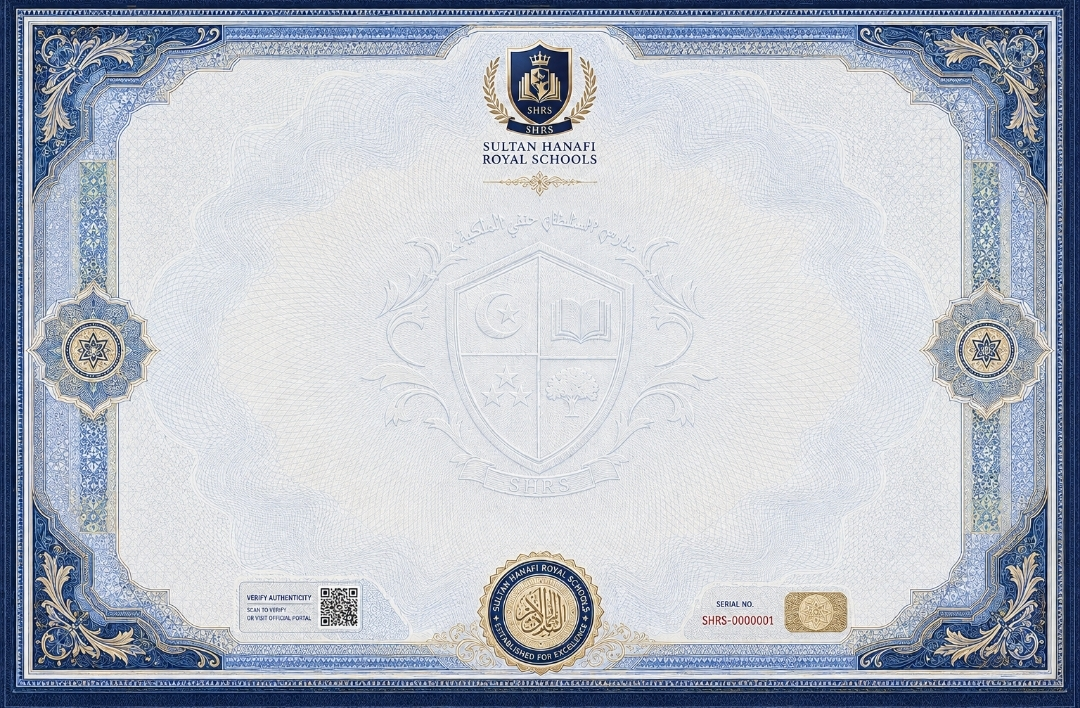
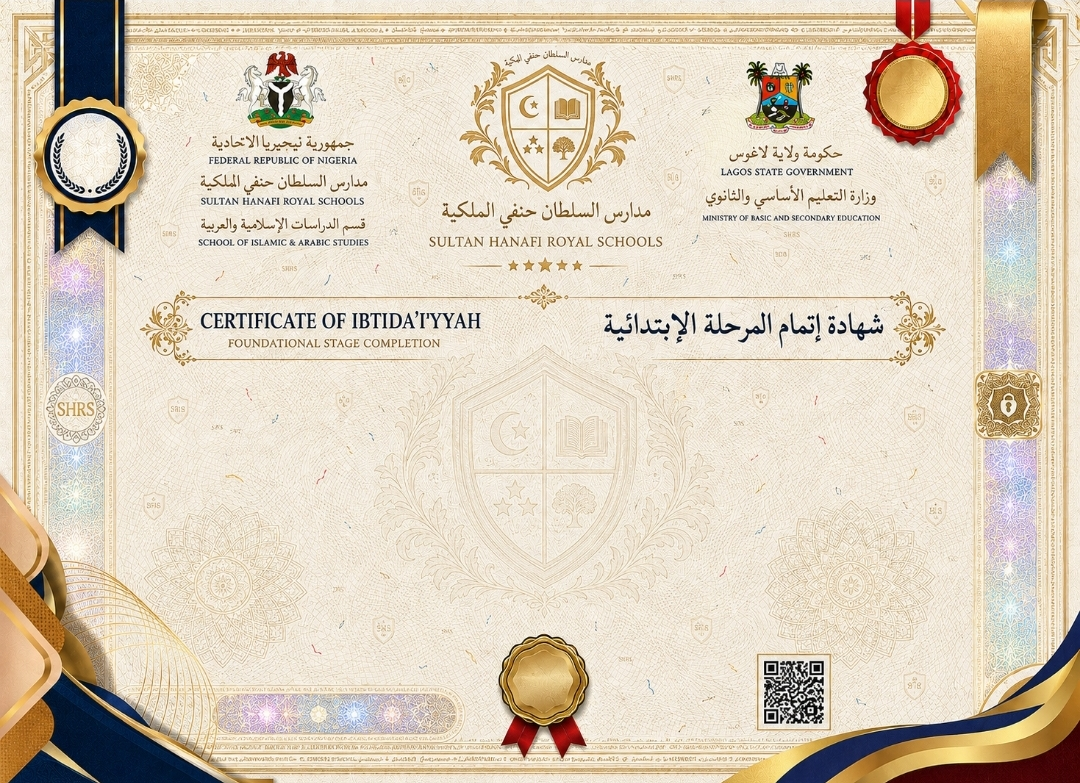
Final Flagship Execution: locked production master + annotated field layout
The Founder's definitive certificate artwork (c141a74d upload) is now
the locked production master, per the Final Flagship Execution
Directive — used exactly as provided, nothing redesigned:

- assets/images/certificates/official-background.jpg replaced with the
  approved artwork (tri-crest masthead with Nigeria arms, official SHRS
  logo lockup, Lagos State Government/Ministry block, printed bilingual
  titles, medallions, holographic rails, bottom seal, QR zone). The
  earlier blue and royal-gold artworks are archived alongside.
- Composition layer rebuilt to the client's annotated layout master:
  bilingual intro lines (This is to certify that / تشهد إدارة مدارس
  السلطان حنفي الملكية بأن), gold-foil student names EN + AR on one
  shared line with equal prominence, sex-aware completion paragraphs,
  mirrored dotted-leader field tables (Programme/Level, Academic
  Session, Certificate Number, Student ID), Date/Place of Issue rows,
  central bordered Hijri-date box, three signatories (Registrar,
  Principal/Head of School, Chairman Board of Governors) flanking the
  printed seal, live QR over the artwork's QR zone, and a verification
  strip carrying Certificate No., Document ID (DID-YYYY-PROG-NNNNNNN),
  grouped Verification Code from the HMAC hash, and the real verify
  URL — every dynamic field a defined placeholder zone for bulk
  generation.
- Three measure-render-refine rounds against the artwork's real
[…]

diff --git a/functions/_lib/stage-certificate-template.js b/functions/_lib/stage-certificate-template.js
@@ -343,91 +343,90 @@ function sheetHtml(args) {
 function sheetHtmlOfficial({ cert, qrSvgMarkup, verifyUrl }) {
   const ar = arForms(cert.student_sex);
   const displayHash = String(cert.content_hash || '').slice(0, 12).toUpperCase();
-  const gregEn = formatGregorianEn(cert.issued_at);
-  const gregAr = formatGregorianAr(cert.issued_at);
-  const hijriEn = cert.issued_at_hijri || '';
-  const hijriAr = cert.issued_at_hijri_ar || '';
+  const verifyCode = displayHash.replace(/(.{4})(.{4})(.{4})/, '$1-$2-$3');
+  const year = new Date(String(cert.issued_at).slice(0, 10)).getUTCFullYear();
+  const docId = `DID-${year}-${escapeHtml(cert.programme_code || 'IBT')}-${String(cert.id || 0).padStart(7, '0')}`;
+  const issuedDDMM = (() => {
+    const d = String(cert.issued_at).slice(0, 10).split('-');
+    return `${d[2]} / ${d[1]} / ${d[0]}`;
+  })();
   const nameEn = escapeHtml(cert.student_full_name);
   const nameAr = escapeHtml(cert.student_full_name_ar || '');
-  const placeEn = escapeHtml(cert.place_en || 'Ikorodu, Lagos State, Nigeria');
-  const placeAr = escapeHtml(cert.place_ar || 'مدينة إكورودو، ولاية لاغوس، نيجيريا');
   const serial = escapeHtml(cert.serial_no);
   const studentId = escapeHtml(cert.student_identity_no || '—');
-  const academicYear = escapeHtml(cert.academic_year);
-  const stageAr = escapeHtml(cert.programme_label_ar || 'المرحلة الابتدائية');
-  const nameMicro = escapeHtml(`· ${cert.serial_no} `.repeat(14));
+  const session = escapeHtml(String(cert.academic_year || '').replace('/', ' – '));
+  const hijriAr = escapeHtml(cert.issued_at_hijri_ar || cert.issued_at_hijri || '');
+  const arCompleted = String(cert.student_sex || '').toLowerCase() === 'female' ? 'أتمت' : 'أتم';
+
+  const enRow = (label, value) => `<div class="f-row en"><span class="f-label">${label}</span><span class="f-lead"></span><span class="f-value">${value}</span></div>`;
+  const arRow = (label, value) => `<div class="f-row ar"><span class="f-value">${value}</span><span class="f-lead"></span><span class="f-label">${label}</span></div>`;
 
   return `<div class="sheet sheet--official">
   <img class="official-bg" src="${OFFICIAL_BACKGROUND}" alt="" />
 
-  <div class="o-head o-head-left">
-    <img class="o-arms" src="/assets/images/crests/nigeria-coat-of-arms.png" alt="Federal Republic of Nigeria" />
-    <div class="o-state-en">Federal Republic of Nigeria</div>
-    <div class="o-school-en">School of Islamic &amp; Arabic Studies</div>
+  <div class="o2-intro-en">This is to certify that</div>
+  <div class="o2-intro-ar">تشهد إدارة مدارس السلطان حنفي الملكية بأن</div>
+
+  <div class="o2-name-en foil-text">${nameEn}</div>
+  <div class="o2-name-ar foil-text">${nameAr}</div>
+
+  <div class="o2-para-en">has successfully completed the requirements of the
+    Ibtidā&rsquo;iyyah (Primary) stage in accordance with the approved curriculum
+    and academic standards of the School.</div>
+  <div class="o2-para-ar">قد ${arCompleted} بنجاحٍ متطلبات المرحلة الإبتدائية وفقًا
+    للمناهج المعتمدة والمعايير الأكاديمية المعمول بها في المدرسة.</div>
+
+  <div class="o2-fields-en">
+    ${enRow('Programme / Level', 'Ibtidā&rsquo;iyyah (Primary)')}
+    ${enRow('Academic Session', session)}
+    ${enRow('Certificate Number', serial)}
+    ${enRow('Student ID', studentId)}
   </div>
-  <div class="o-head o-head-right">
-    <div class="o-state-ar">جمهورية نيجيريا الاتحادية</div>
-    <div class="o-inst-ar">مدارس السلطان حنفي الملكية</div>
-    <div class="o-school-ar">قسم الدراسات الإسلامية والعربية</div>
+  <div class="o2-fields-ar">
+    ${arRow('البرنامج / المستوى', 'المرحلة الإبتدائية')}
+    ${arRow('السنة الدراسية', session)}
+    ${arRow('رقم الشهادة', serial)}
+    ${arRow('الرقم التعريفي للطالب', studentId)}
   </div>
 
-  <div class="o-titles">
-    <div class="o-title-en">
-      <div class="o-t-en-1">Certificate of Ibtidā&rsquo;iyyah</div>
-      <div class="o-t-en-2">Foundational Stage Completion</div>
-    </div>
-    <div class="o-title-div"><span></span></div>
-    <div class="o-title-ar">
-      <div class="o-t-ar-1">شهادة إتمام المرحلة الإبتدائية</div>
-      <div class="o-t-ar-2"><span dir="rtl">العام الدراسي ${academicYear}</span> · Academic Year ${academicYear}</div>
-    </div>
+  <div class="o2-dates-en">
+    ${enRow('Date of Issue', issuedDDMM)}
+    ${enRow('Place of Issue', escapeHtml(cert.place_en || 'Ikorodu, Lagos, Nigeria'))}
+  </div>
+  <div class="o2-dates-ar">
+    ${arRow('تاريخ الإصدار', issuedDDMM)}
+    ${arRow('مكان الإصدار', escapeHtml(cert.place_ar || 'لاغوس، نيجيريا'))}
   </div>
 
-  <div class="o-conferral">
-    <span class="o-conf-en">This certificate is proudly conferred upon</span>
-    <span class="o-conf-sep">✦</span>
-    <span class="o-conf-ar">تُمنح هذه الشهادة بكل فخرٍ واعتزاز إلى ${ar.student}</span>
+  <div class="o2-hijri">
+    <div class="o2-hijri-k">التاريخ الهجري</div>
+    <div class="o2-hijri-v">${hijriAr}</div>
   </div>
 
-  <div class="o-name">
-    <div class="o-name-en foil-text">${nameEn}</div>
-    <div class="o-name-ar foil-text">${nameAr}</div>
-    <div class="o-name-micro">${nameMicro}</div>
+  <div class="o2-sig o2-sig-1">
+    <div class="o2-sig-line"></div>
+    <div class="o2-sig-en">Registrar</div>
+    <div class="o2-sig-seal">(Official Seal) · المسجّلة</div>
+  </div>
+  <div class="o2-sig o2-sig-2">
+    <div class="o2-sig-line"></div>
+    <div class="o2-sig-en">Principal / Head of School</div>
+    <div class="o2-sig-seal">(Official Seal) · رئيس المدرسة</div>
+  </div>
+  <div class="o2-sig o2-sig-3">
+    <div class="o2-sig-line"></div>
+    <div class="o2-sig-en">Chairman, Board of Governors</div>
+    <div class="o2-sig-seal">(Official Seal) · رئيس مجلس الإدارة</div>
   </div>
 
-  <div class="o-citation">
-    <div class="o-cite en">
-      In recognition of the successful completion of the prescribed programme of the
-      <strong>Ibtidā&rsquo;iyyah — Foundational Stage</strong> in the Islamic and Arabic
-      disciplines, pursuant to the School&rsquo;s approved curriculum, at ${placeEn}.
-      <span class="o-dates">Given this <strong>${gregEn}</strong>${hijriEn ? `, corresponding to <strong>${escapeHtml(hijriEn)}</strong>` : ''}.</span>
-    </div>
-    <div class="o-cite ar">
-      وذلك ${ar.completion} متطلبات البرنامج المقرر <strong>${stageAr}</strong>
-      في علوم الدراسات الإسلامية والعربية وفق المناهج المعتمدة لدى المدرسة، في ${placeAr}.
-      <span class="o-dates">حُرِّرت هذه الشهادة في <strong>${gregAr}</strong>${hijriAr ? ` الموافق <strong>${escapeHtml(hijriAr)}</strong>` : ''}.</span>
-    </div>
-  </div>
+  <div class="o2-qr">${themedQr(qrSvgMarkup, '#221A10', '#FFFFFF')}</div>
+  <div class="o2-verify"><span class="vt">Verification</span>
+    Certificate No. <b>${serial}</b><span class="sep">·</span>
+    Document ID <b>${docId}</b><span class="sep">·</span>
+    Code <b>${verifyCode}</b><span class="sep">·</span>
+    Verify online <b>shroyalschools.com/verify-certificate</b></div>
 
-  <div class="o-void">أي تعديلٍ أو تغييرٍ يجعل هذه الشهادة لاغية &nbsp;·&nbsp; <em>Any alteration or modification renders this certificate void</em></div>
-
-  <div class="o-sig o-sig-left">
-    <div class="o-sig-line"></div>
-    <div class="o-sig-en">Registrar</div>
-    <div class="o-sig-ar">المسجّلة</div>
-  </div>
-  <div class="o-sig o-sig-right">
-    <div class="o-sig-line"></div>
-    <div class="o-sig-en">Head of the School</div>
-    <div class="o-sig-ar">رئيس المدرسة</div>
-  </div>
-
-  <!-- live verification into the paper's own zones -->
-  <div class="o-qr">${themedQr(qrSvgMarkup, '#1B2740', '#F4F6F7')}</div>
-  <div class="o-serial-patch"></div>
-  <div class="o-serial">${serial}</div>
-  <div class="o-student-id">STUDENT ID&nbsp; ${studentId}</div>
-  <div class="o-hash">HMAC-SHA-256 &nbsp;${displayHash}</div>
+  <div class="o2-void">Issued without alteration or erasure — any tampering voids this certificate · أي تعديلٍ أو تغييرٍ يجعل هذه الشهادة لاغية</div>
 </div>`;
 }
 
@@ -618,79 +617,65 @@ function docShell(title, sheetsHtml) {
   .frame{position:absolute;inset:0;width:100%;height:100%;}
   .official-bg{position:absolute;inset:0;width:100%;height:100%;object-fit:fill;}
 
-  /* ═══ OFFICIAL-PAPER COMPOSITION (client artwork, used as provided;
-     content set into the paper's own zones — all positions in mm on
-     the 297×209.5 sheet, measured from the source) ═══ */
+  /* ═══ OFFICIAL-PAPER COMPOSITION v2 — the client's LOCKED
+     production master (Final Flagship Execution Directive): the
+     artwork renders untouched; only the approved data fields compose
+     into its zones, per the annotated layout master. Positions in mm
+     on the 297×209.5 sheet. ═══ */
   .sheet--official{background:#FFFFFF;}
-  .o-head{position:absolute;top:34mm;width:72mm;}
-  .o-head-left{left:42mm;text-align:left;}
-  .o-head-right{right:42mm;text-align:right;}
-  .o-arms{height:10mm;width:auto;object-fit:contain;margin-bottom:1.6mm;
-    filter:contrast(1.15) saturate(1.2) drop-shadow(0 0.4mm 0.5mm rgba(20,30,55,.3));}
-  .o-state-en{font-family:var(--en-display);font-size:9.6pt;font-weight:700;letter-spacing:2.6px;text-transform:uppercase;color:#1F2A44;white-space:nowrap;}
-  .o-school-en{font-family:var(--en-display);font-size:7pt;font-weight:600;letter-spacing:2px;text-transform:uppercase;color:#8C6516;margin-top:1.3mm;}
-  .o-state-ar{font-family:var(--ar-display);font-size:10pt;font-weight:700;line-height:1.6;color:#1F2A44;white-space:nowrap;}
-  .o-inst-ar{font-family:var(--ar-display);font-size:10pt;font-weight:600;line-height:1.7;color:#3C4863;margin-top:1mm;white-space:nowrap;}
-  .o-school-ar{font-family:var(--ar-text);font-size:9pt;font-weight:700;color:#8C6516;margin-top:.5mm;}
+  .o2-intro-en{position:absolute;top:96mm;left:42mm;width:100mm;text-align:center;
+    font-family:var(--en-text);font-style:italic;font-size:9.8pt;color:#4B3420;}
+  .o2-intro-ar{position:absolute;top:95.6mm;right:42mm;width:100mm;text-align:center;direction:rtl;
+    font-family:var(--ar-text);font-size:10.4pt;font-weight:700;color:#4B3420;}
 
-  .o-titles{position:absolute;top:60mm;left:42mm;right:42mm;display:grid;grid-template-columns:1fr auto 1fr;align-items:center;column-gap:6mm;}
-  .o-title-en{text-align:right;}
-  .o-t-en-1{font-family:var(--en-display);font-size:13.2pt;font-weight:700;letter-spacing:2.2px;text-transform:uppercase;color:#1B2740;white-space:nowrap;}
-  .o-t-en-2{font-family:var(--en-text);font-style:italic;font-size:10pt;font-weight:600;letter-spacing:1px;color:#3C4863;margin-top:.8mm;}
-  .o-title-div{height:12mm;display:flex;align-items:center;}
-  .o-title-div span{display:block;width:.3mm;height:100%;background:linear-gradient(180deg,transparent,#B8860B,transparent);}
-  .o-title-ar{text-align:left;direction:rtl;}
-  .o-t-ar-1{font-family:var(--ar-display);font-size:12.8pt;font-weight:700;line-height:1.6;color:#1B2740;white-space:nowrap;}
-  .o-t-ar-2{font-family:var(--en-text);font-style:italic;font-size:8.6pt;color:#3C4863;margin-top:.4mm;direction:ltr;text-align:left;}
-  .o-t-ar-2 span{font-family:var(--ar-text);font-style:normal;}
+  .o2-name-en{position:absolute;top:102.5mm;left:38mm;width:106mm;text-align:center;
+    font-family:var(--en-display);font-size:16.5pt;font-weight:700;letter-spacing:1.8px;line-height:1.15;}
+  .o2-name-ar{position:absolute;top:102mm;right:38mm;width:106mm;text-align:center;direction:rtl;
+    font-family:var(--ar-text);font-size:15.5pt;font-weight:700;line-height:1.3;
+    -webkit-text-stroke:0.38px rgba(92,67,31,.55);}
 
-  .o-conferral{position:absolute;top:82mm;left:0;right:0;display:flex;justify-content:center;gap:5mm;align-items:baseline;}
-  .o-conf-en{font-family:var(--en-text);font-style:italic;font-size:10pt;color:#3C4863;}
-  .o-conf-sep{color:#B8860B;font-size:6.5pt;}
-  .o-conf-ar{font-family:var(--ar-text);font-size:11pt;color:#3C4863;direction:rtl;}
+  .o2-para-en{position:absolute;top:113.5mm;left:42mm;width:99mm;
+    font-family:var(--en-text);font-size:9.4pt;line-height:1.5;color:#3A2A18;text-align:center;}
+  .o2-para-ar{position:absolute;top:113.5mm;right:42mm;width:99mm;direction:rtl;
+    font-family:var(--ar-text);font-size:10pt;line-height:1.65;color:#3A2A18;text-align:center;}
 
-  .o-name{position:absolute;top:89mm;left:0;right:0;text-align:center;}
-  .o-name-en{font-family:var(--en-display);font-size:25pt;font-weight:700;letter-spacing:2.6px;line-height:1.1;}
-  .o-name-ar{font-family:var(--ar-text);font-size:18.5pt;font-weight:700;margin-top:1mm;direction:rtl;}
-  .o-name-micro{margin:1.8mm auto 0;max-width:128mm;white-space:nowrap;overflow:hidden;
-    font-family:var(--utility);font-size:2.9pt;letter-spacing:.35px;color:#8C6516;opacity:.65;
-    border-top:0.15mm solid rgba(140,101,22,.4);padding-top:.5mm;}
+  .f-row{display:flex;align-items:baseline;gap:1.6mm;margin-bottom:2mm;}
+  .f-label{font-family:var(--en-text);font-size:8.2pt;font-weight:600;color:#4B3420;white-space:nowrap;}
+  .f-row.ar .f-label{font-family:var(--ar-text);font-size:8.8pt;font-weight:700;}
+  .f-lead{flex:1;border-bottom:0.3mm dotted #B08A2E;transform:translateY(-0.7mm);}
+  .f-value{font-family:var(--utility);font-size:7.4pt;font-weight:600;letter-spacing:.2px;color:#221A10;white-space:nowrap;}
+  .f-row.ar{direction:rtl;}
+  .f-row.ar .f-value{direction:ltr;}
 
-  .o-citation{position:absolute;top:117mm;left:40mm;right:40mm;display:grid;grid-template-columns:1fr 1fr;column-gap:8mm;}
-  .o-cite{line-height:1.6;color:#33405C;}
-  .o-cite.en{font-family:var(--en-text);font-size:10.4pt;text-align:left;}
-  .o-cite.ar{font-family:var(--ar-text);font-size:11.2pt;line-height:1.78;text-align:right;direction:rtl;}
-  .o-cite strong{color:#1B2740;}
-  .o-dates{display:block;margin-top:1.2mm;font-size:.93em;}
+  .o2-fields-en{position:absolute;top:130mm;left:42mm;width:99mm;}
+  .o2-fields-ar{position:absolute;top:130mm;right:42mm;width:99mm;}
+  .o2-dates-en{position:absolute;top:154mm;left:42mm;width:80mm;}
+  .o2-dates-ar{position:absolute;top:154mm;right:42mm;width:80mm;}
 
-  .o-void{position:absolute;top:149mm;left:0;right:0;text-align:center;
-    font-family:var(--ar-text);font-size:6.6pt;color:#5A2830;}
-  .o-void em{font-family:var(--en-text);}
+  .o2-hijri{position:absolute;top:153mm;left:128mm;width:41mm;text-align:center;
+    border:0.35mm solid #B08A2E;background:rgba(253,248,238,.92);padding:1.3mm 2mm;}
+  .o2-hijri-k{font-family:var(--ar-text);font-size:7.6pt;font-weight:700;color:#4B3420;}
+  .o2-hijri-v{font-family:var(--ar-text);font-size:8.6pt;font-weight:700;color:#221A10;margin-top:.5mm;direction:rtl;}
 
-  .o-sig{position:absolute;top:154mm;width:62mm;text-align:center;}
-  .o-sig-left{left:46mm;}
-  .o-sig-right{right:46mm;}
-  .o-sig-line{width:50mm;height:0.25mm;margin:0 auto;background:linear-gradient(90deg,transparent,#1B2740 15%,#1B2740 85%,transparent);}
-  .o-sig-en{font-family:var(--en-display);font-size:7.6pt;font-weight:600;letter-spacing:1.9px;text-transform:uppercase;color:#1B2740;margin-top:1.4mm;}
-  .o-sig-ar{font-family:var(--ar-text);font-size:10.4pt;font-weight:700;color:#3C4863;margin-top:.2mm;}
+  .o2-sig{position:absolute;top:169.8mm;width:40mm;text-align:center;}
+  .o2-sig-1{left:41mm;}
+  .o2-sig-2{left:84mm;}
+  .o2-sig-3{left:167mm;width:36mm;}
+  .o2-sig-line{width:34mm;height:0.25mm;margin:0 auto;background:linear-gradient(90deg,transparent,#4B3420 15%,#4B3420 85%,transparent);}
+  .o2-sig-en{font-family:var(--en-display);font-size:6.6pt;font-weight:600;letter-spacing:.9px;text-transform:uppercase;color:#221A10;margin-top:1.2mm;line-height:1.3;}
+  .o2-sig-seal{font-family:var(--en-text);font-style:italic;font-size:5.6pt;color:#6E5013;margin-top:.5mm;}
 
-  /* live data set into the paper's own bottom apparatus */
-  .o-qr{position:absolute;left:88.7mm;top:172.9mm;width:12mm;height:12mm;background:#F4F6F7;padding:.5mm;}
-  .o-qr svg{width:100%;height:100%;display:block;}
-  .o-serial-patch{position:absolute;left:190.5mm;top:179.9mm;width:24.5mm;height:6.6mm;
-    background:linear-gradient(180deg,#EDEFF2,#E7EAEE);border-radius:.6mm;}
-  .o-serial{position:absolute;left:150mm;top:180.9mm;width:63.6mm;text-align:right;
-    font-family:var(--utility);font-size:6pt;font-weight:700;letter-spacing:.3px;color:#9E2B33;}
-  .o-student-id{position:absolute;left:150mm;top:184.9mm;width:63.6mm;text-align:right;
-    font-family:var(--utility);font-size:4.4pt;font-weight:600;letter-spacing:.5px;color:#3C4863;}
-  .o-hash{position:absolute;left:63.5mm;top:183.2mm;width:24mm;text-align:left;
-    font-family:var(--utility);font-size:3.6pt;font-weight:600;letter-spacing:.3px;color:#3C4863;}
-  .grain{position:absolute;inset:0;background-image:url("${PARCHMENT}");background-size:95mm;mix-blend-mode:multiply;pointer-events:none;}
-  .watermark{position:absolute;inset:0;display:flex;align-items:center;justify-content:center;pointer-events:none;}
-  .watermark img{width:112mm;opacity:.045;filter:sepia(.65) saturate(.7);}
+  .o2-qr{position:absolute;left:204.3mm;top:174.4mm;width:26mm;height:22.6mm;background:#FFFFFF;
+    display:flex;align-items:center;justify-content:center;}
+  .o2-qr svg{width:20.8mm;height:20.8mm;display:block;}
+  .o2-verify{position:absolute;left:44mm;top:185.6mm;width:154mm;
+    font-family:var(--utility);font-size:4.6pt;color:#221A10;line-height:1.5;}
+  .o2-verify .vt{font-family:var(--en-display);font-weight:700;letter-spacing:1.2px;text-transform:uppercase;color:#6E5013;margin-right:1.4mm;}
+  .o2-verify b{font-weight:600;}
+  .o2-verify .sep{color:#B08A2E;padding:0 1mm;}
 
-  /* Bible §4.1/§4.2 — wide content inset, generous air */
-  .inner{position:absolute;inset:17.5mm 19mm 16mm;display:flex;flex-direction:column;}
+  .o2-void{position:absolute;left:44mm;top:190.6mm;width:154mm;
+    font-family:var(--en-text);font-style:italic;font-size:4.7pt;color:#7A1F2B;line-height:1.4;}
 
   /* ═══ Masthead ═══ */
   .masthead{display:grid;grid-template-columns:88mm 1fr 96mm;align-items:start;column-gap:3mm;}
